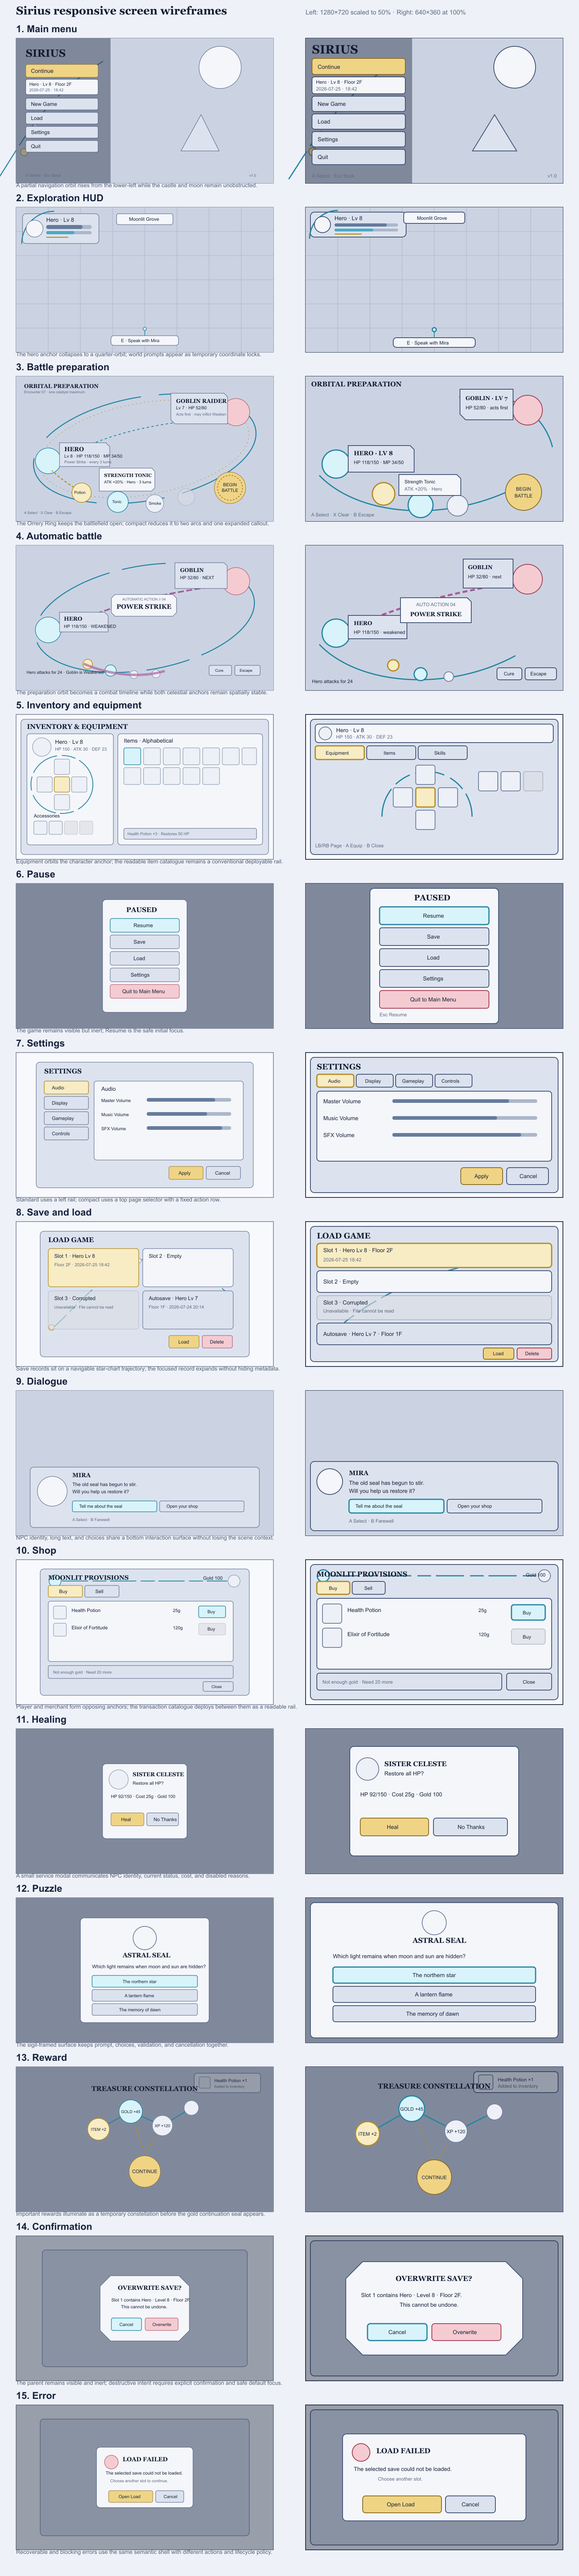
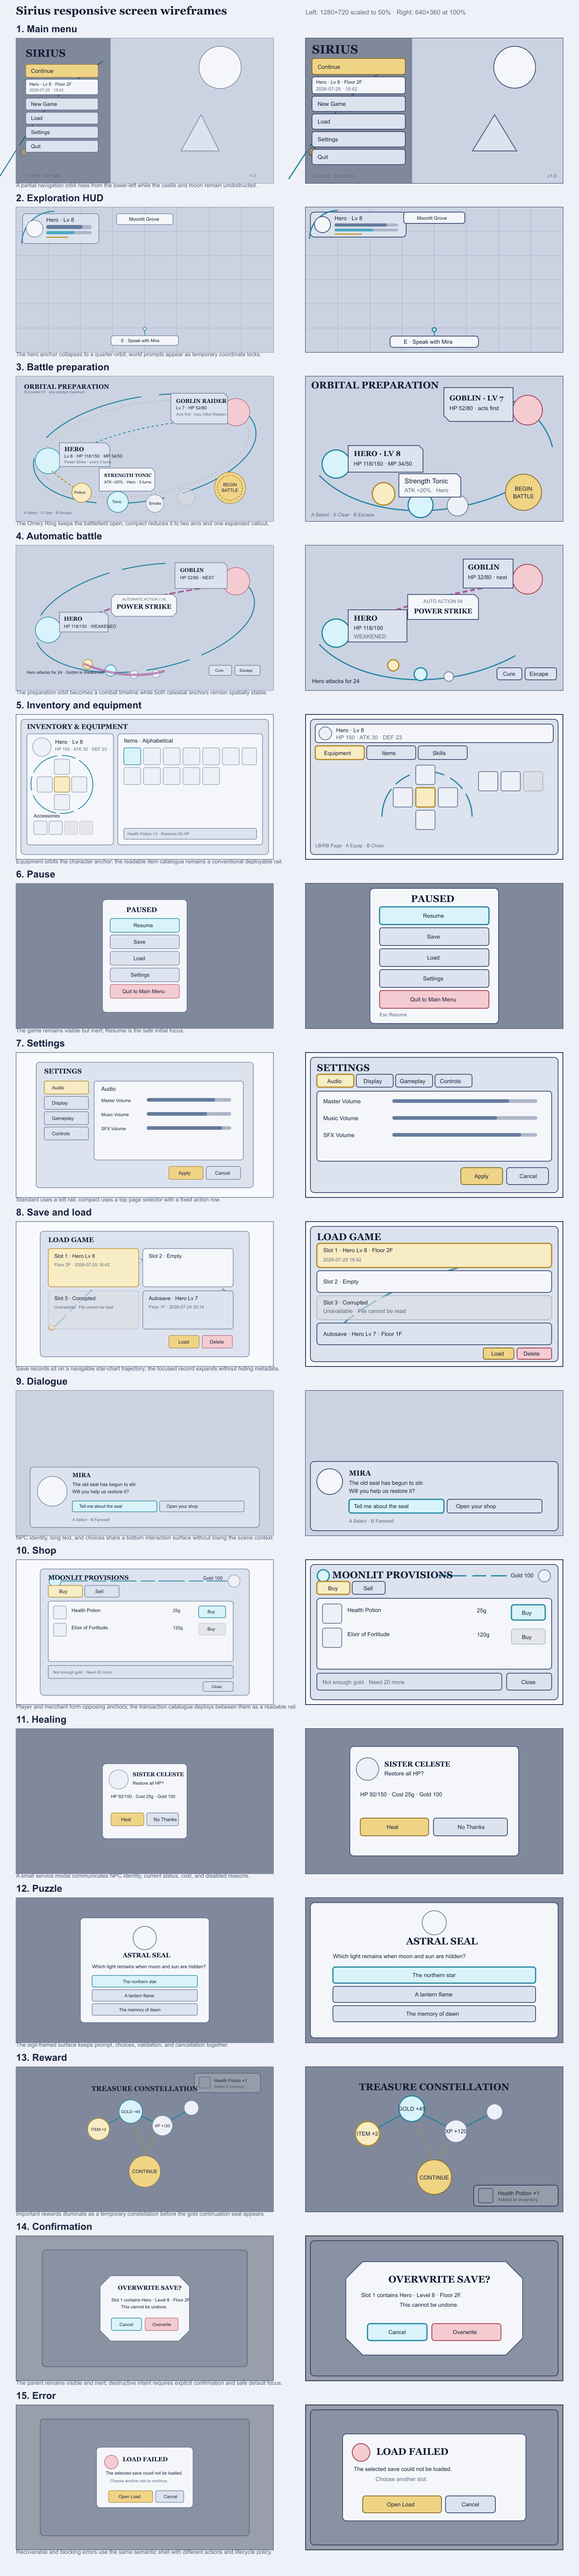
docs: improve Sirius UI typography readability

Changed region(s): [[0.6875, 0.2188, 0.8438, 0.25], [0.7188, 0.125, 0.75, 0.1562], [0.625, 0.2188, 0.6562, 0.25]]

diff --git a/docs/superpowers/specs/2026-07-25-sirius-ui-visual-language-design.md b/docs/superpowers/specs/2026-07-25-sirius-ui-visual-language-design.md
@@ -1,6 +1,6 @@
 # Sirius UI Visual Language and Screen Design
 
-**Version:** 1.1
+**Version:** 1.2
 **Status:** Review candidate — design approved section by section; written artifact review pending  
 **Linear:** HPA-373  
 **Design decisions approved:** 2026-07-25
@@ -121,13 +121,18 @@ Selection uses gold. Keyboard and gamepad focus use a separate 2 px cyan outer r
 
 | Role | Standard | Compact |
 |---|---:|---:|
-| Display | 44 px | 30 px |
-| Screen title | 28 px | 22 px |
+| Screen title or statement | 32 px | 24 px |
+| Character or enemy name | 24 px | 18 px |
 | Section title | 20 px | 17 px |
-| Body and control | 16 px | 14 px |
-| Metadata | 14 px | 12 px |
+| Essential combat, body, and control | 16 px | 14 px |
+| Supporting metadata and input hint | 14 px | 12 px |
+| Decorative telemetry | 12 px | 12 px |
 
-Nothing renders below 12 logical pixels.
+The Sirius wordmark is a branded exception and may render at 44 px standard and 30 px compact. Nothing renders below 12 logical pixels.
+
+Essential state, outcome, and action text never uses the 12 px telemetry size. This includes HP and MP values, item effects, projected outcomes, reward quantities, validation messages, and action labels. At compact sizes, expendable telemetry is removed before essential text is reduced; essential text never drops below 14 px.
+
+Short HUD and combat labels use approximately 1.25 line height. Dialogue, descriptions, and other multi-line body copy use approximately 1.4 line height. Numeric state uses tabular figures. Localized strings wrap or expand their containing callout instead of shrinking, and character or enemy names may wrap to two lines. Truncation is allowed only for nonessential metadata when the full value is available through a focused detail view or tooltip.
 
 ### 5.3 Geometry and surfaces
 
@@ -568,7 +573,11 @@ No new world, character, enemy, or floor artwork is required by this specificati
 Every downstream screen migration must validate:
 
 - All seven target viewport sizes
-- 12 px minimum logical text
+- 12 px minimum logical text, reserved for supporting metadata and decorative telemetry
+- 14 px minimum compact text for essential state, outcomes, instructions, and actions
+- Optional telemetry removed before any compact essential text is reduced
+- Body, dialogue, and HUD line-height roles match the typography rules
+- Localized strings wrap or expand their container instead of shrinking
 - 24 px standard and 12 px compact safe margins
 - Ultrawide 1600 px content frame
 - Representative long and localized strings

diff --git a/docs/ui/hpa-373/README.md b/docs/ui/hpa-373/README.md
@@ -2,7 +2,7 @@
 
 This package supports the canonical [Sirius UI visual-language specification](../../superpowers/specs/2026-07-25-sirius-ui-visual-language-design.md).
 
-Version 1.1 establishes the **Constellation Orrery** direction: a battlefield-first ancient star-machine with anime interstellar telemetry, orbital navigation, anchored callouts, catalogue rails, and decisive gold seals.
+Version 1.2 establishes the **Constellation Orrery** direction: a battlefield-first ancient star-machine with anime interstellar telemetry, orbital navigation, anchored callouts, catalogue rails, decisive gold seals, and a readability-first responsive type hierarchy.
 
 ## Deliverables
 

diff --git a/docs/ui/hpa-373/wireframes/README.md b/docs/ui/hpa-373/wireframes/README.md
@@ -27,6 +27,8 @@ The sheet covers:
 
 These are low-fidelity composition and hierarchy references. Exact tokens, state behavior, component geometry, lifecycle rules, and responsive policies are normative in the canonical HPA-373 specification.
 
+The compact examples preserve 14 px for essential state, outcomes, instructions, and actions. The remaining 12 px text is supporting metadata or expendable telemetry.
+
 The revised sheet applies the Constellation Orrery spatial grammar where it improves identity:
 
 - Partial navigation and HUD arcs

diff --git a/docs/ui/hpa-373/reference/README.md b/docs/ui/hpa-373/reference/README.md
@@ -14,6 +14,7 @@ It deliberately demonstrates:
 - Normal Smoke Bomb and disabled Warding Charm nodes
 - Gold **Begin Battle** ignition seal closing the combat circuit
 - HP, MP, active-skill, first-turn, target, quantity, and effect hierarchy
+- Readability-first type roles that keep essential battle state at 16 px and metadata at 14 px
 - Ancient astronomical geometry with restrained interstellar telemetry
 - Input hints and rollback-supporting preparation copy
 
